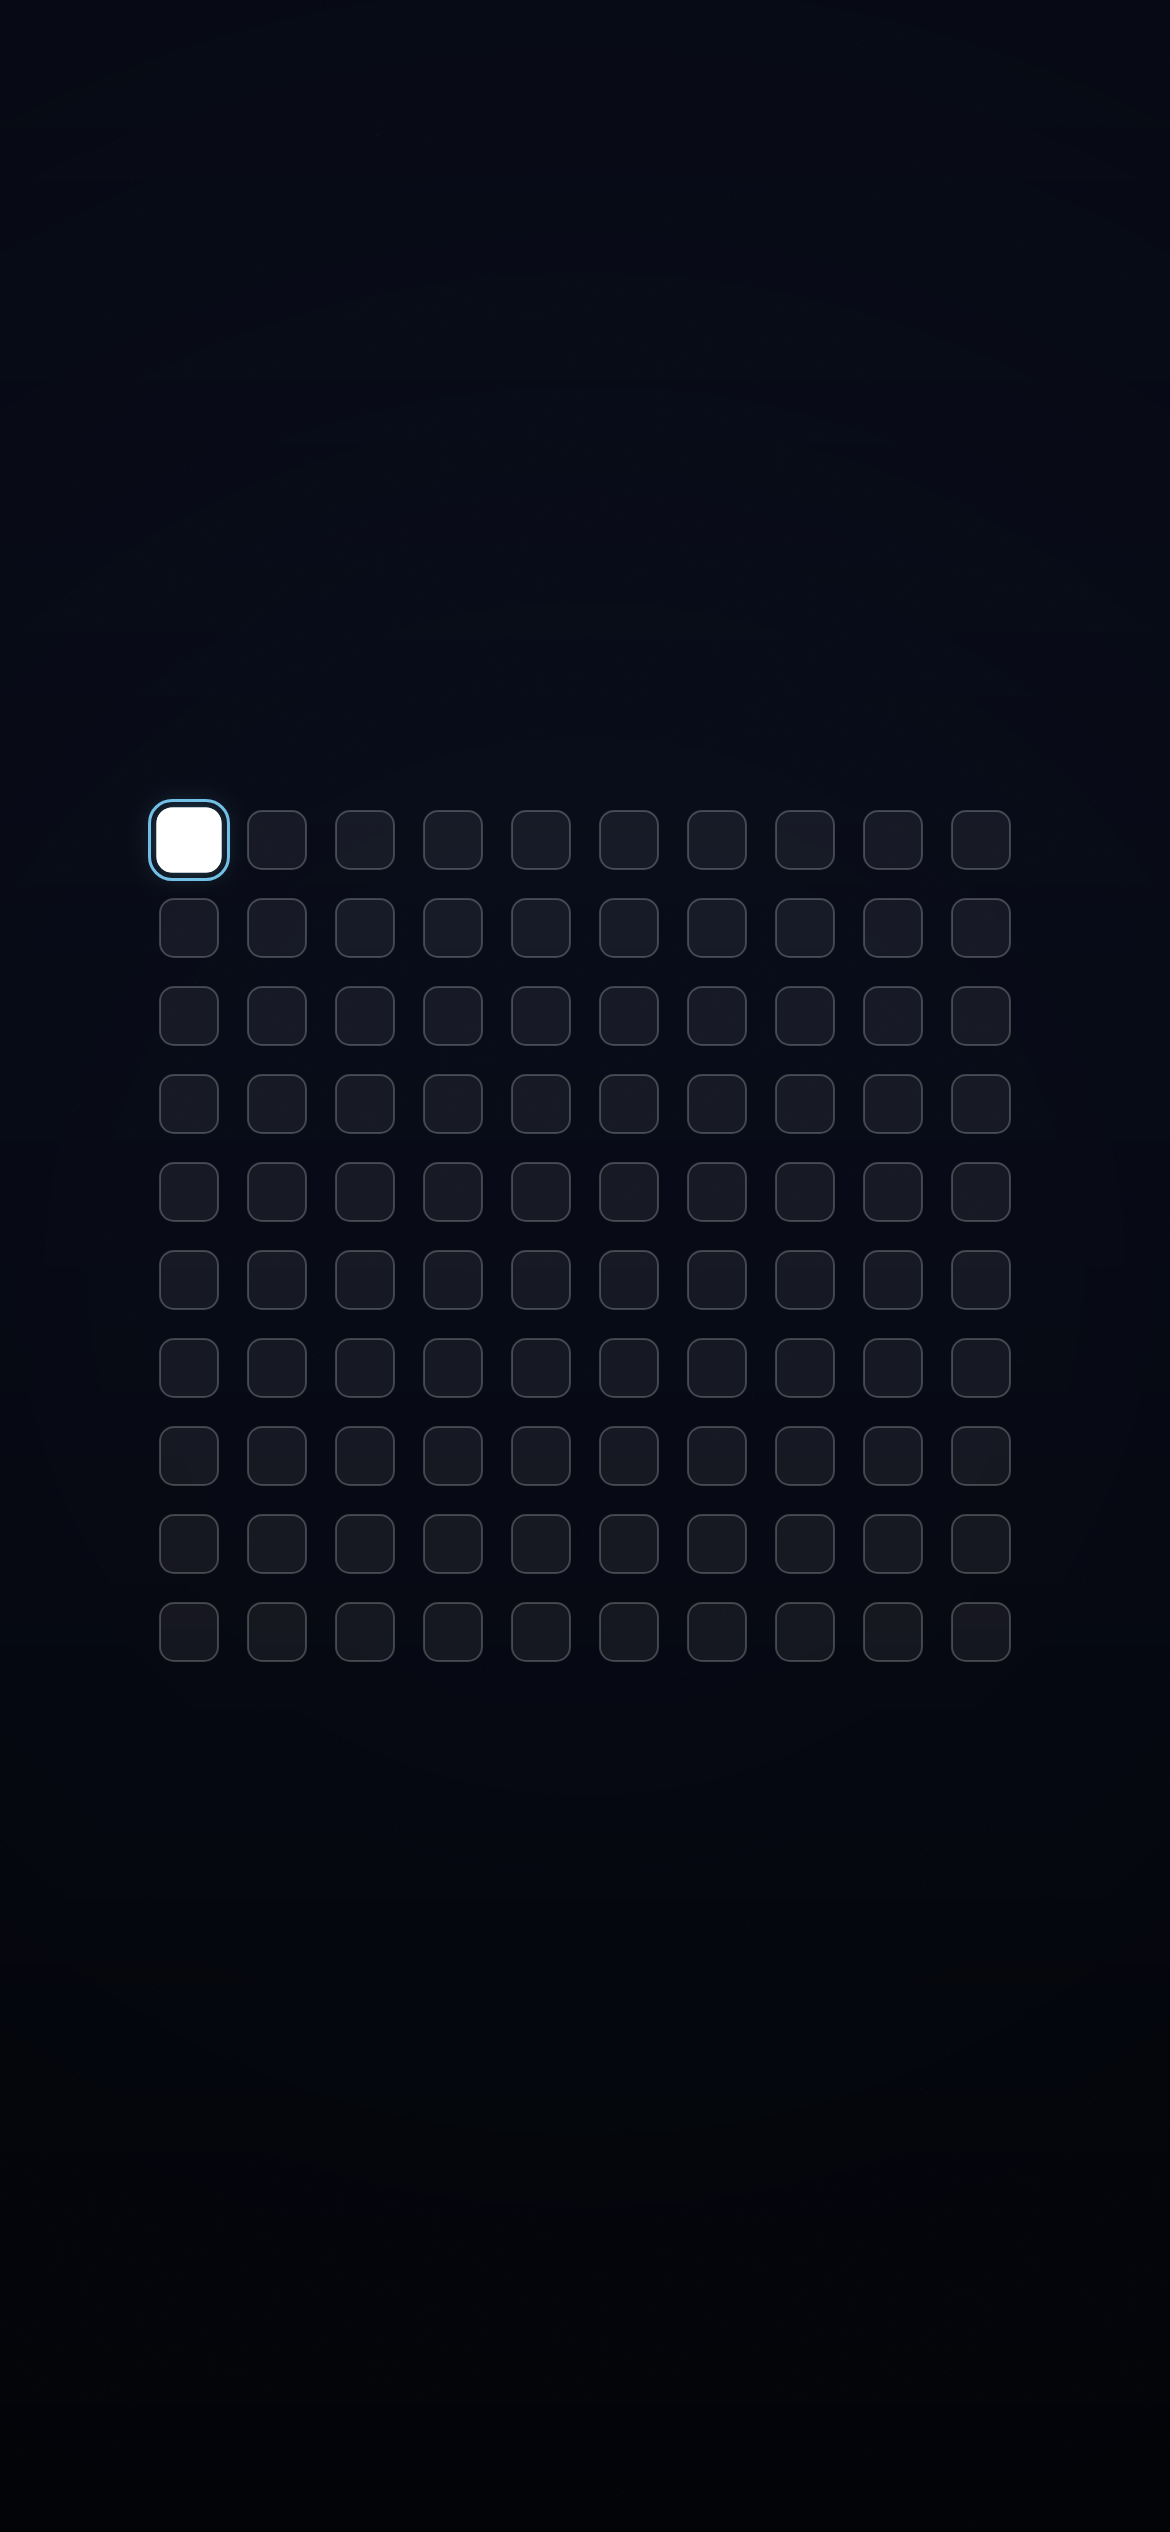
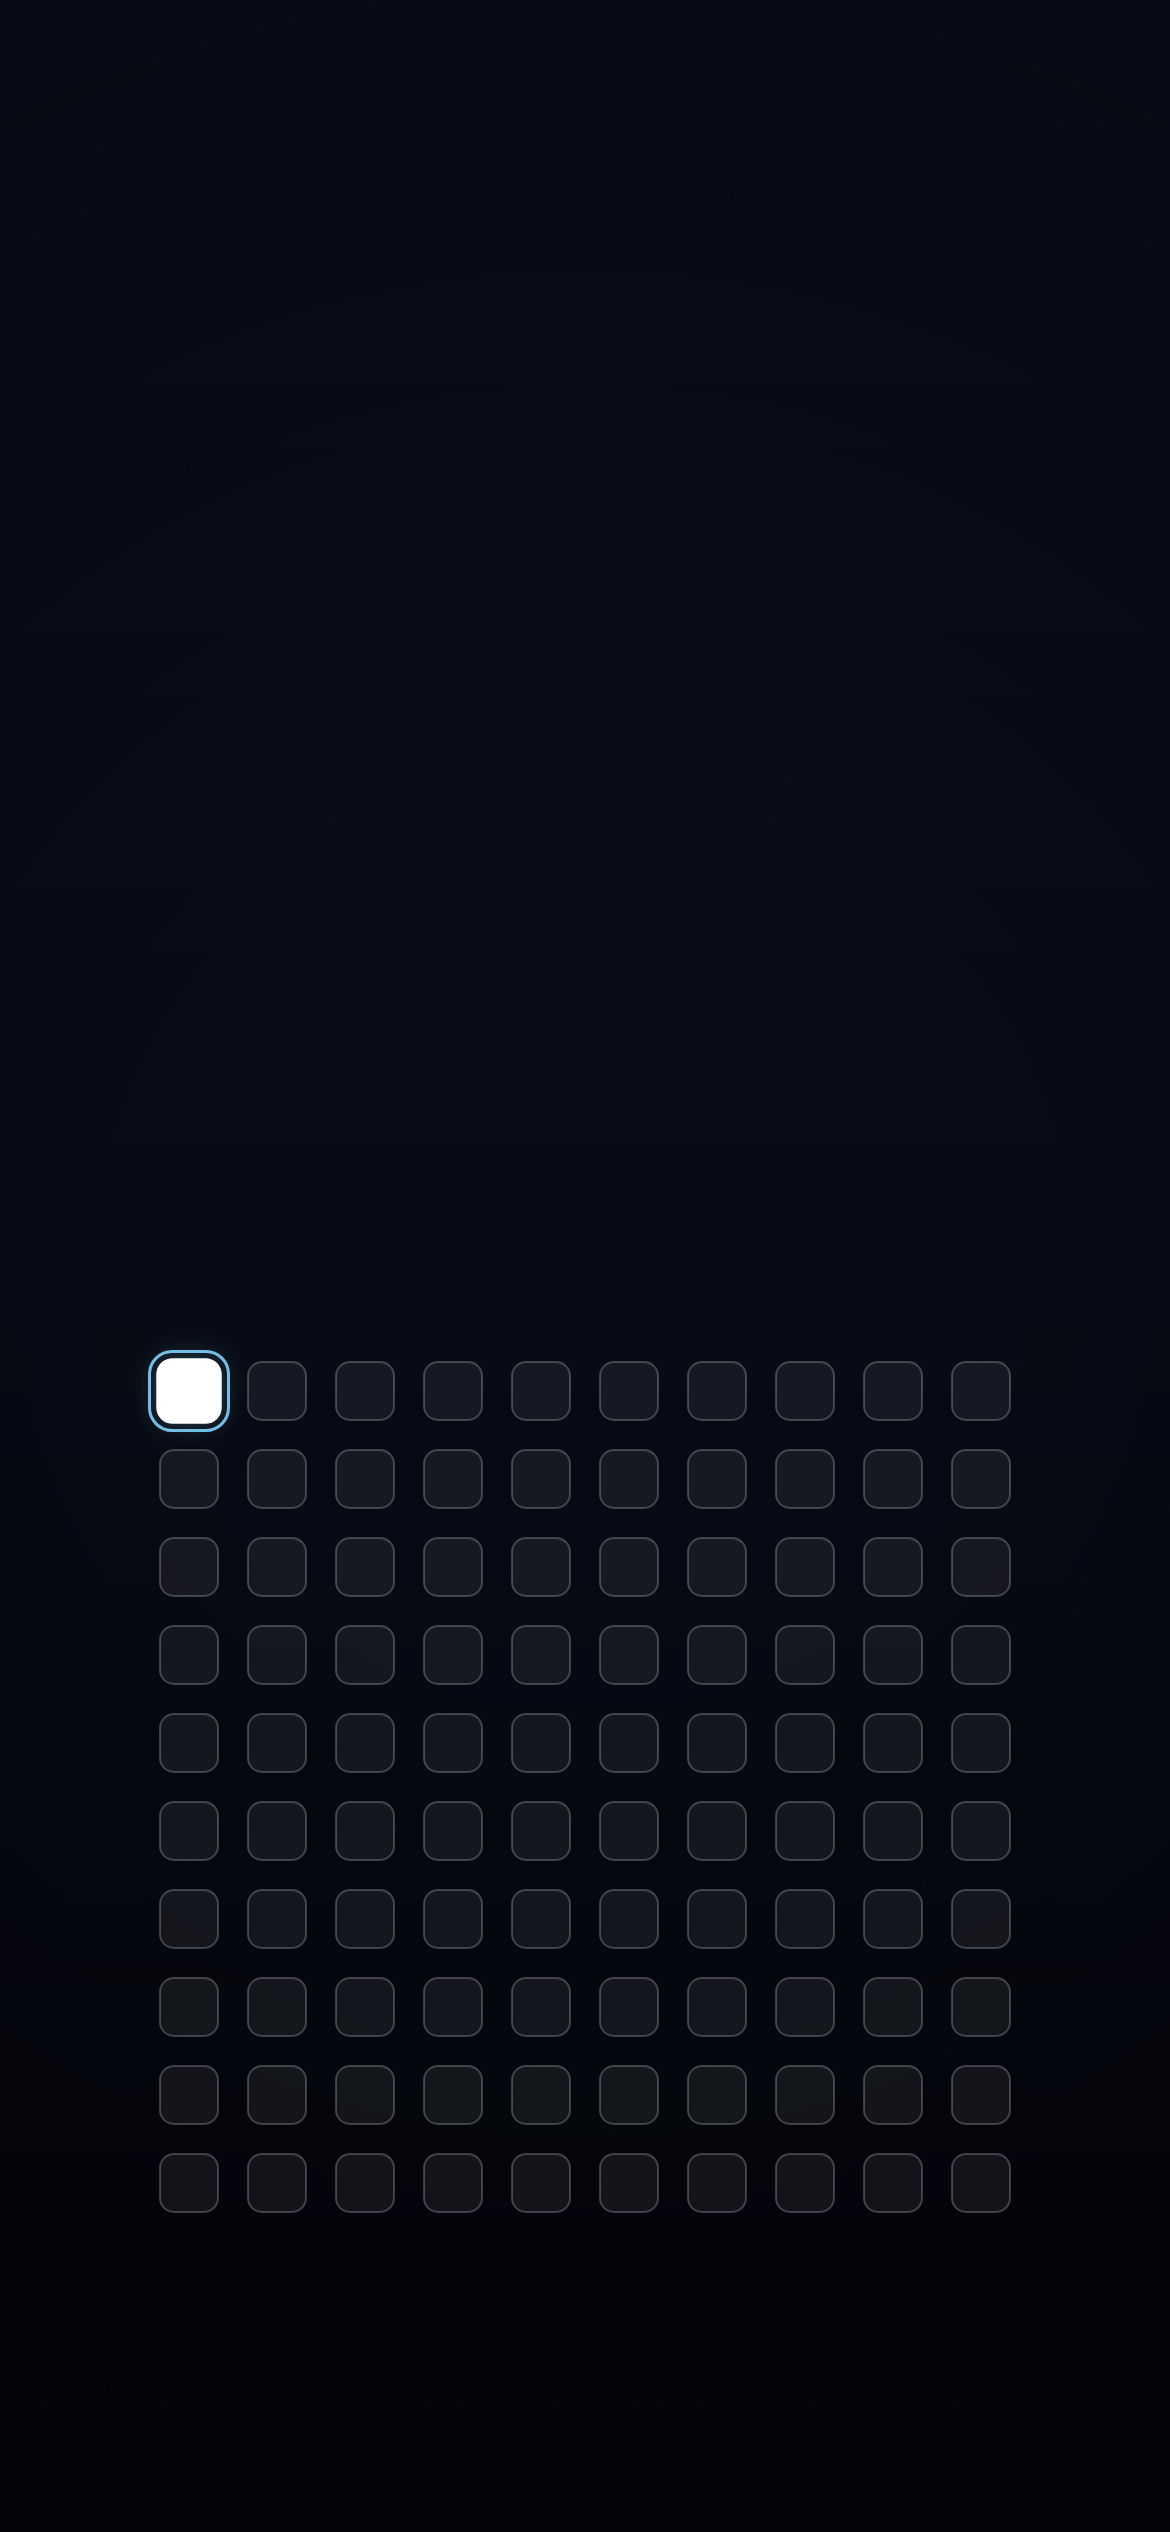
Shift grid down ~25% of canvas height (layout.verticalOffset)

diff --git a/scripts/generate.js b/scripts/generate.js
@@ -190,7 +190,11 @@ const footerH = (t.showDayCounter || t.showDateRange || t.showPercentage ? 60 : 
   (t.showProgressBar ? layout.progressBarHeight + layout.footerGap : 0);
 
 const contentH = headerH + (headerH ? layout.headerGap : 0) + gridH + (footerH ? layout.footerGap : 0) + footerH;
-const contentTop = safeTop + Math.max(0, (safeH - contentH) / 2);
+const centeredTop = safeTop + Math.max(0, (safeH - contentH) / 2);
+// Shift the whole content block down from center by `verticalOffset` px,
+// clamped so it never pushes past the bottom safe area.
+const maxTop = safeBottom - contentH;
+const contentTop = Math.min(centeredTop + (layout.verticalOffset ?? 0), Math.max(safeTop, maxTop));
 
 const startX = (width - gridW) / 2;
 let cursorY = contentTop;
